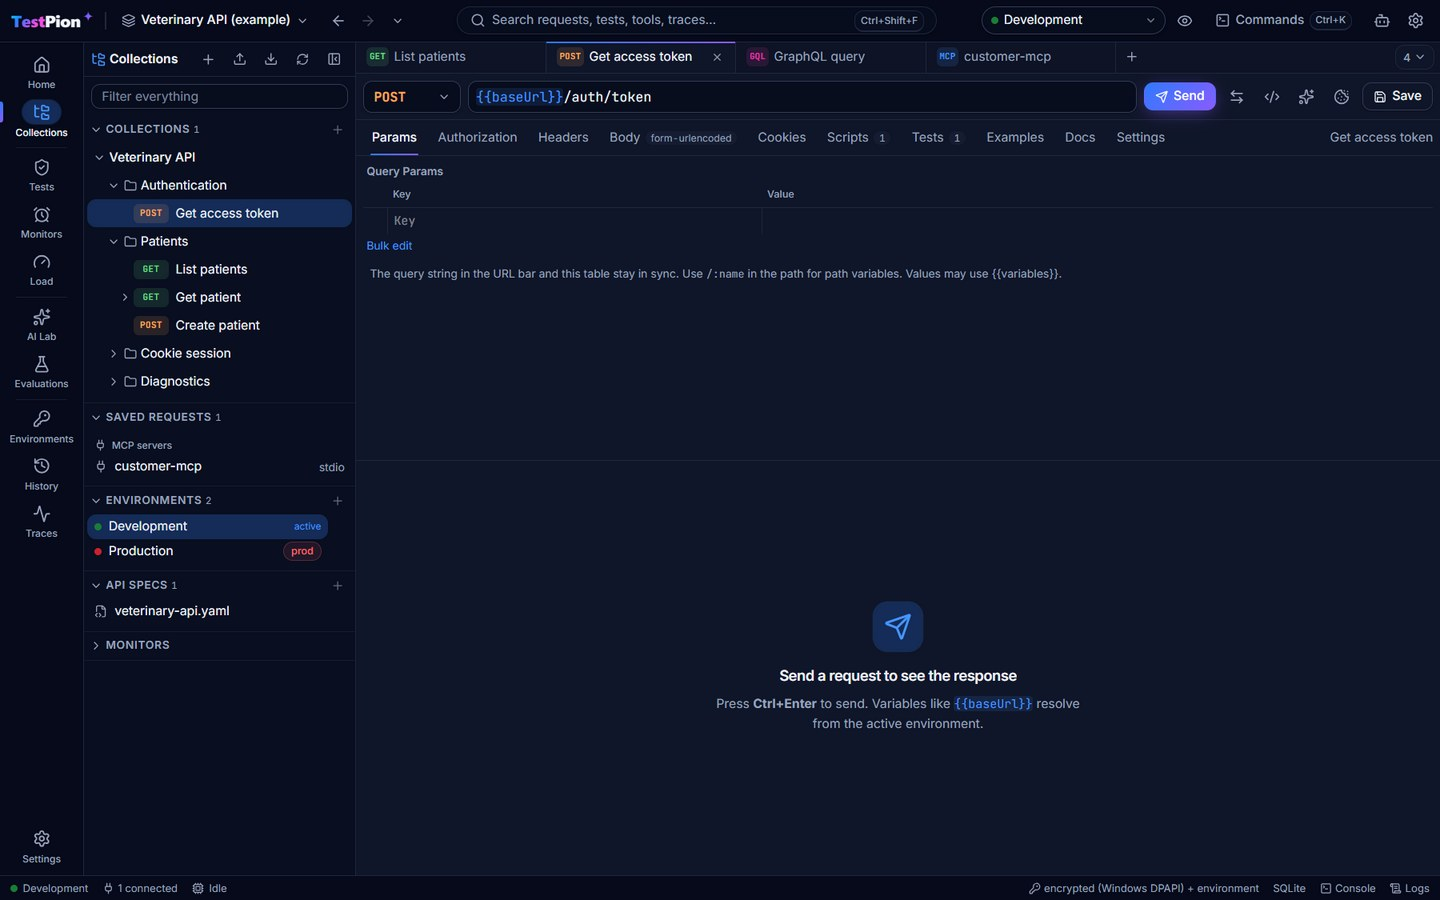
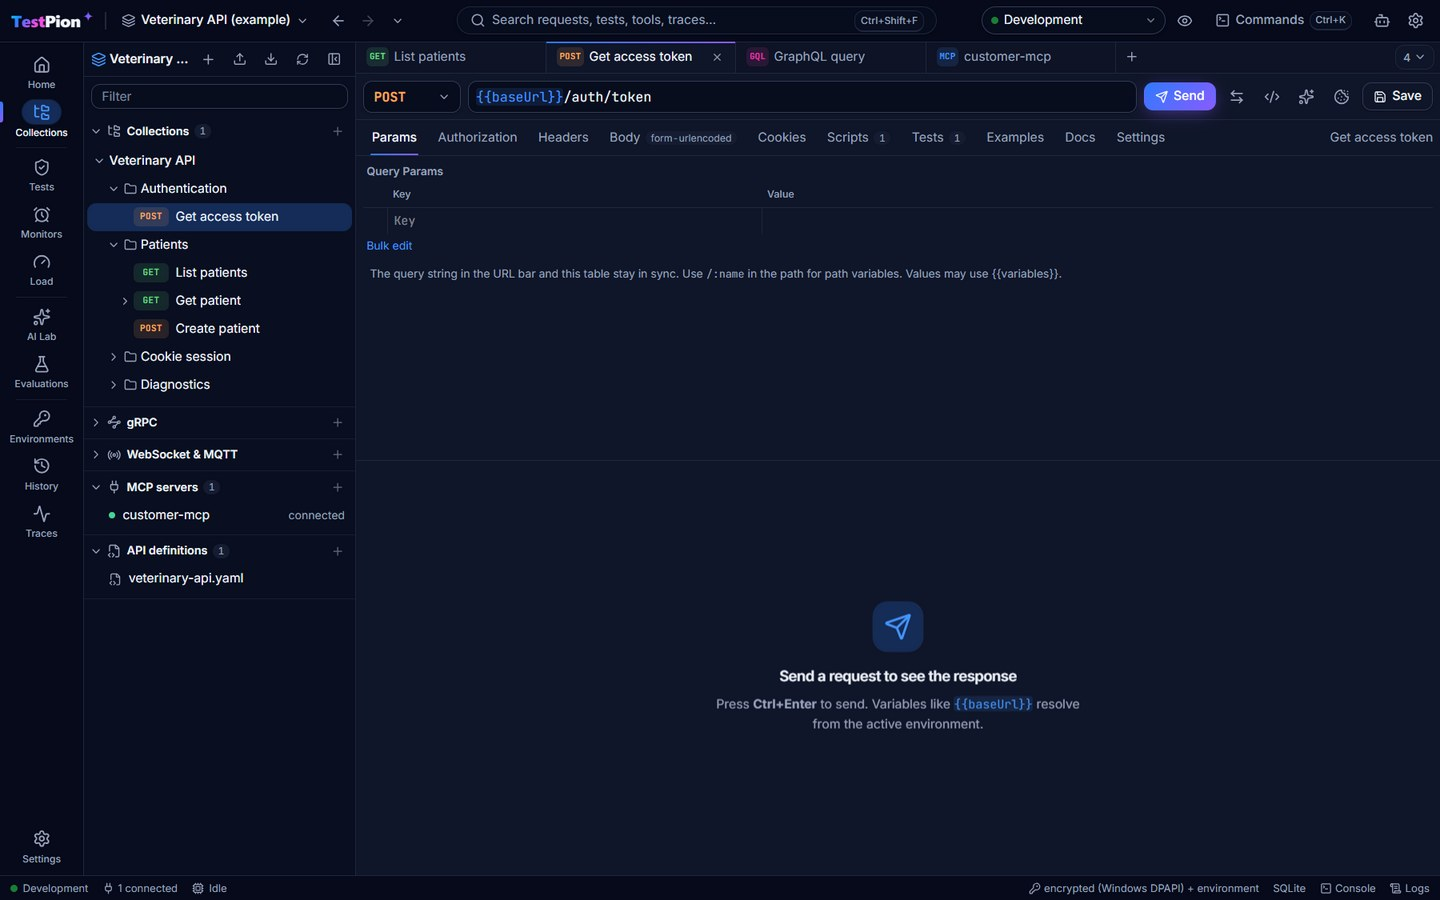
Release v0.12.0: a clearer Collections sidebar

diff --git a/packages/core/src/version.ts b/packages/core/src/version.ts
@@ -1,2 +1,2 @@
 /** TestPion's version (the engine, CLI and app are released together). */
-export const ENGINE_VERSION = '0.11.1';
+export const ENGINE_VERSION = '0.12.0';

diff --git a/CHANGELOG.md b/CHANGELOG.md
@@ -1,6 +1,8 @@
 # Changelog
 
-## Unreleased
+## 0.12.0 — 2026-09-30
+
+Highlights: a clearer **Collections sidebar**, organised by what you work with (collections, gRPC, WebSocket & MQTT, MCP servers, API definitions), with a create button in every section.
 
 - **A clearer Collections sidebar**:
   - The panel is titled with your workspace name. Its sections follow what you work with: **Collections** (HTTP and GraphQL), **gRPC**, **WebSocket & MQTT**, **MCP servers** (with a connected dot) and **API definitions** (API coverage, compare versions).
